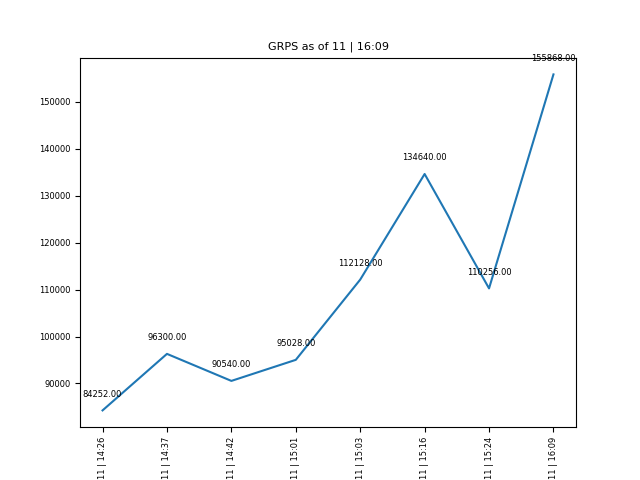
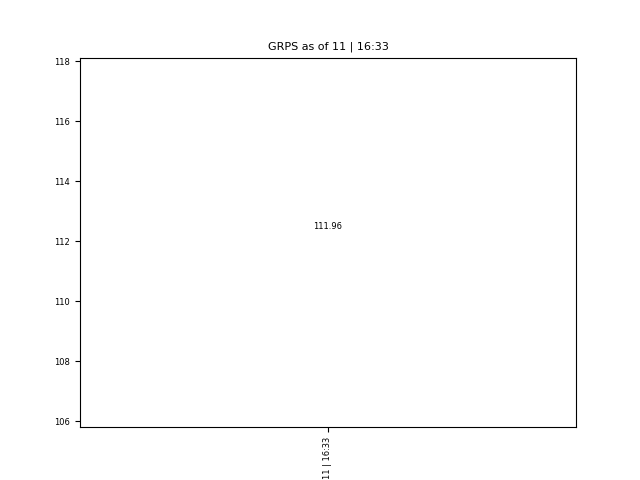
Rebase price_graph to master

diff --git a/objects/economy/farm/plant.py b/objects/economy/farm/plant.py
@@ -77,7 +77,7 @@ class Plant(Base):
 
         # Format y-axis labels
         def y_label(price):
-            return round(price, 2)
+            return round(price / 10000, 2)
         
         # Graph axes
         time_x = [x_label(log.refreshed_at) for log in _plantstats]
